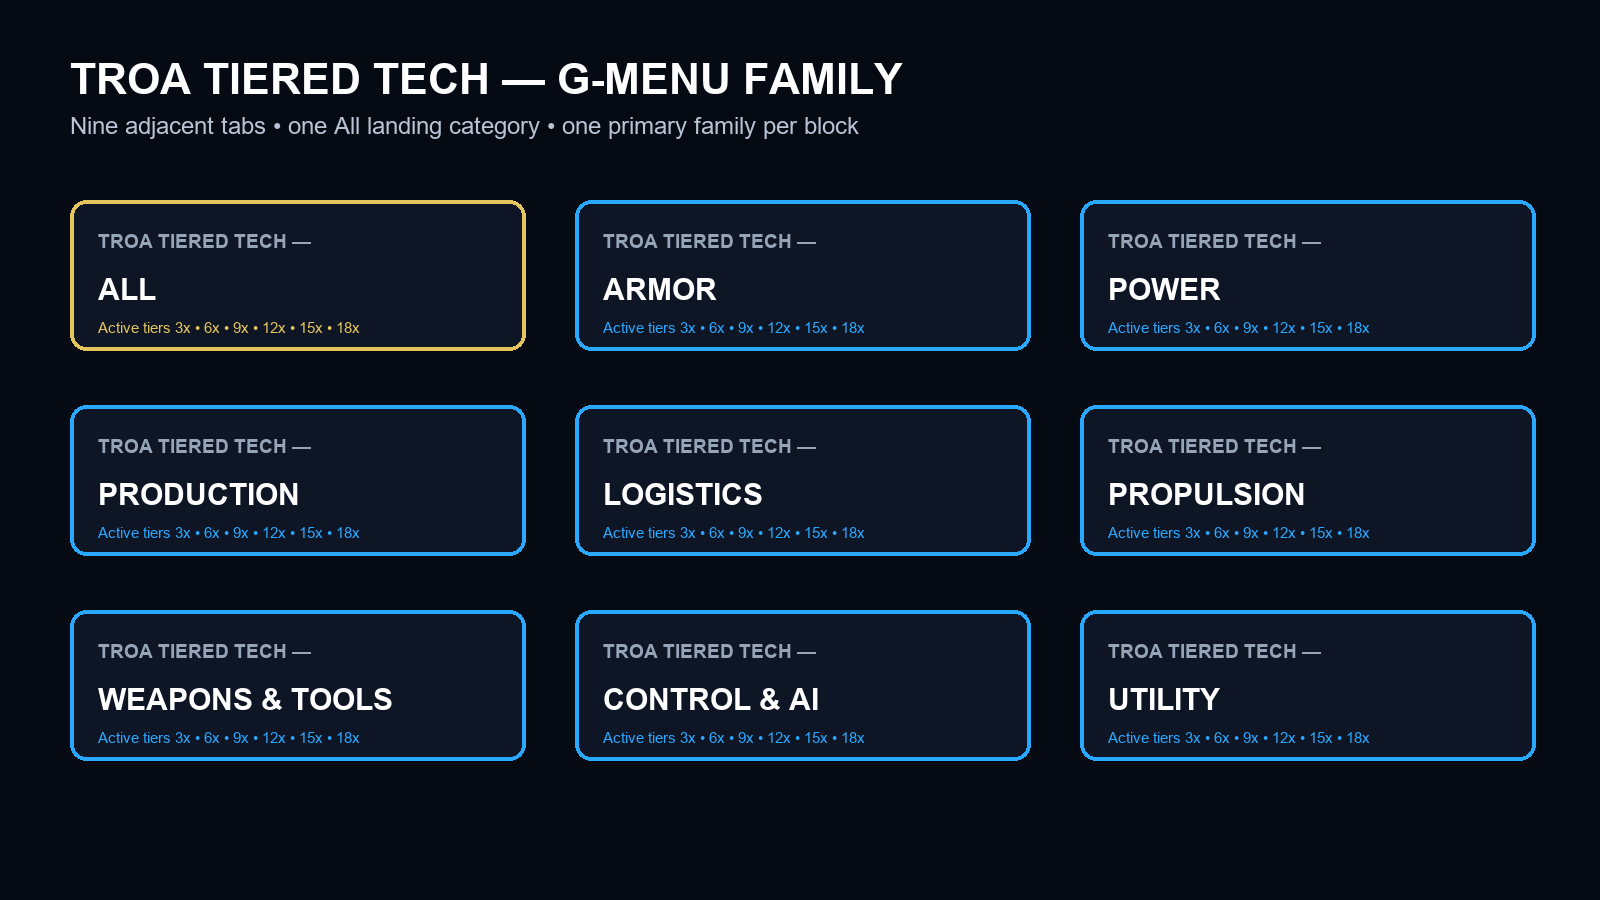
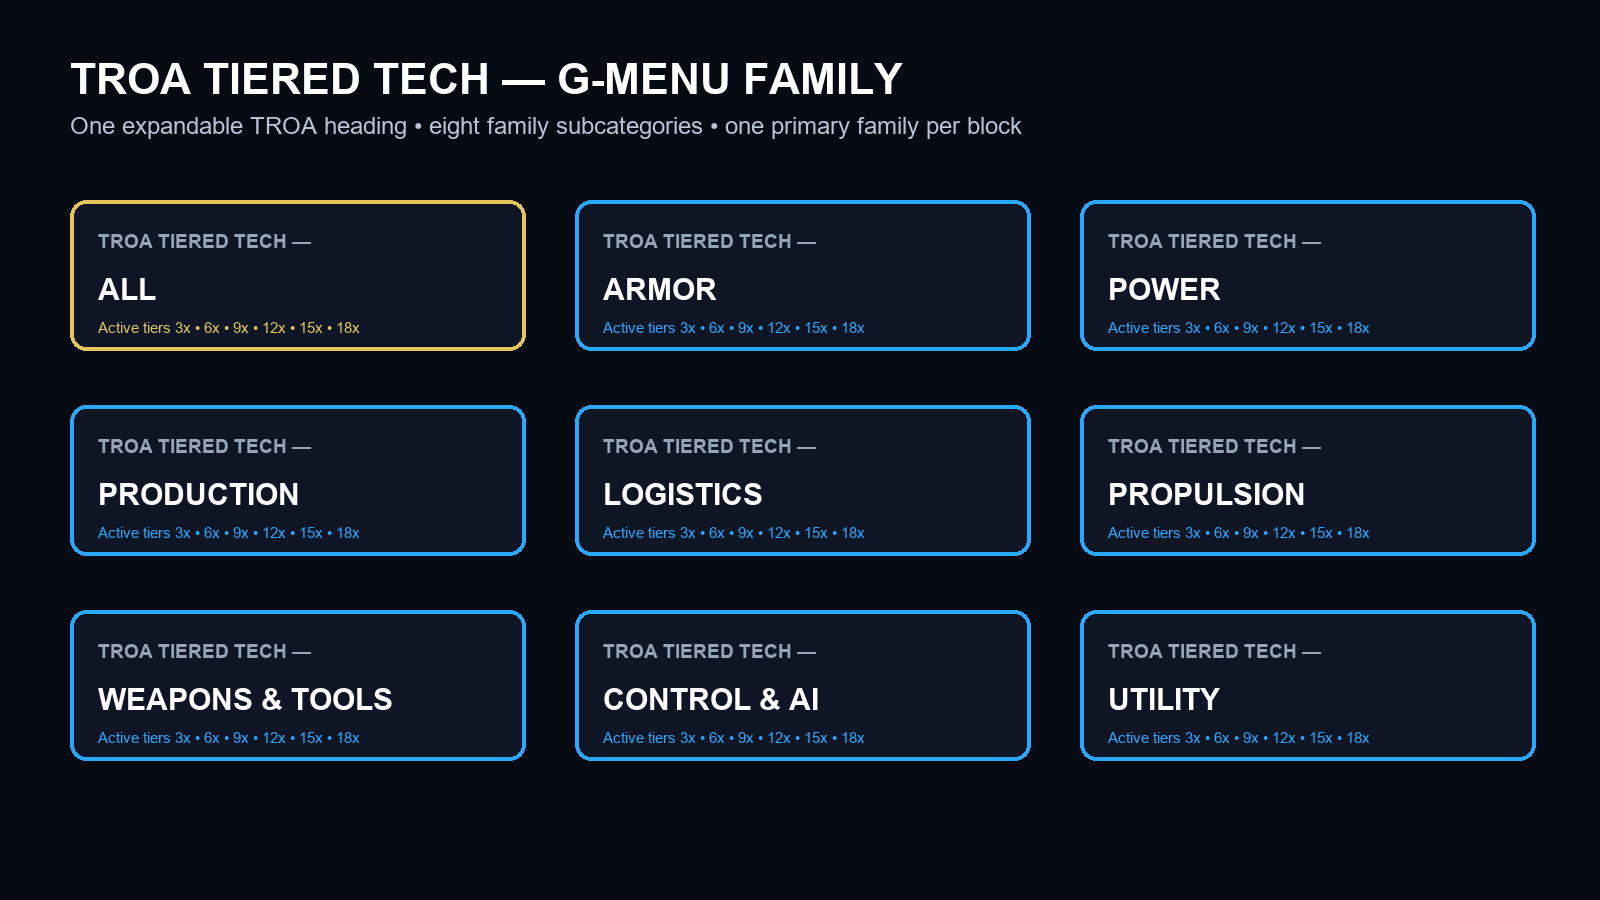
Document expandable TROA menu

Changed region(s): [[0.0312, 0.1244, 0.6562, 0.1556]]

diff --git a/CHANGELOG.md b/CHANGELOG.md
@@ -8,7 +8,7 @@
 - Coverage for eligible functional block families and the current light/heavy armor catalog.
 - Tier-scaled armor protection from 3x through 18x.
 - Fixed 3x protection for tiered functional blocks.
-- Nine populated TROA G-menu category tabs, including an All landing category.
+- One expandable TROA G-menu heading with eight populated block-family subcategories.
 - New tier badges, cards, and progression artwork.
 - Saved-world compatibility strategy for legacy 2x, 4x, 8x, and 16x identities.
 
@@ -17,6 +17,7 @@
 - Corrected a numeric overflow that prevented the six active propulsion tiers from loading in Space Engineers.
 - Added validation to prevent out-of-range game values from reaching future development builds.
 - Cleaned up legacy compatibility definitions and an unsafe Admin Tech recipe.
+- Reworked the TROA menu to match the expandable built-in DLC category layout.
 
 ### Release status
 

diff --git a/README.md b/README.md
@@ -30,7 +30,7 @@ Functional blocks receive fixed 3x protection. Armor protection scales with its 
 
 ![TROA Tiered Tech menu family](docs/images/menu-preview.png)
 
-Space Engineers uses flat G-menu category tabs, so the mod presents one contiguous category family:
+The G-menu uses an expandable `TROA Tiered Tech` heading that matches the built-in DLC layout. It contains Armour, Weapons & Tools, Power, Production, Logistics, Propulsion, Control & AI, and Utility subcategories.
 
 - TROA Tiered Tech — All
 - TROA Tiered Tech — Armor
